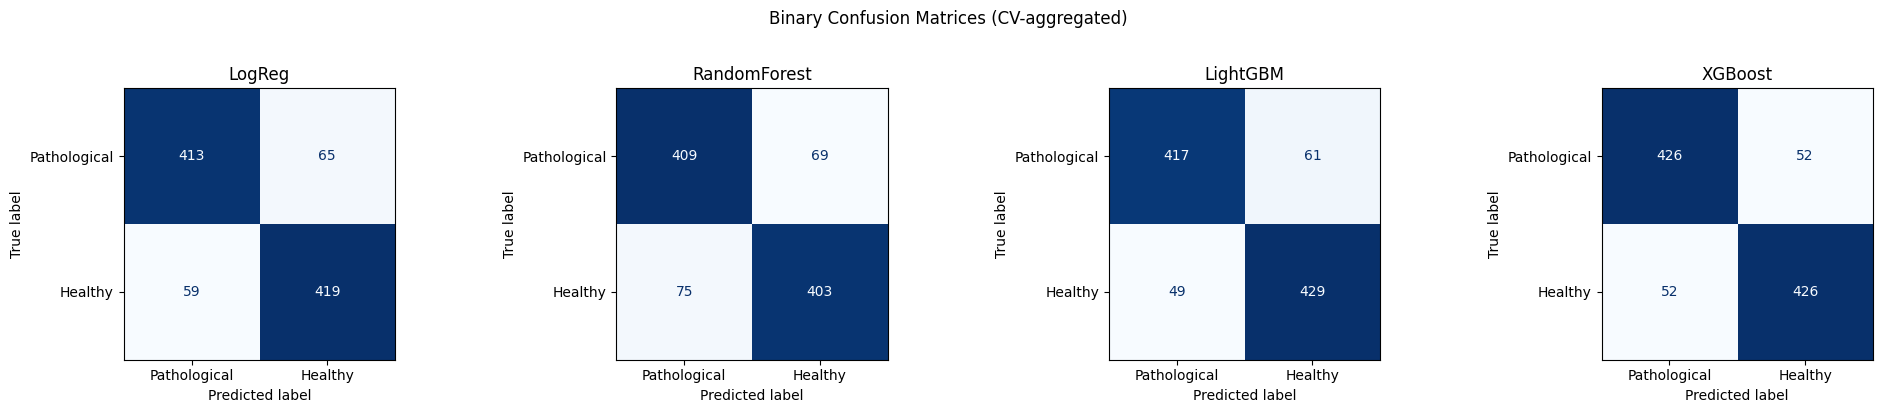
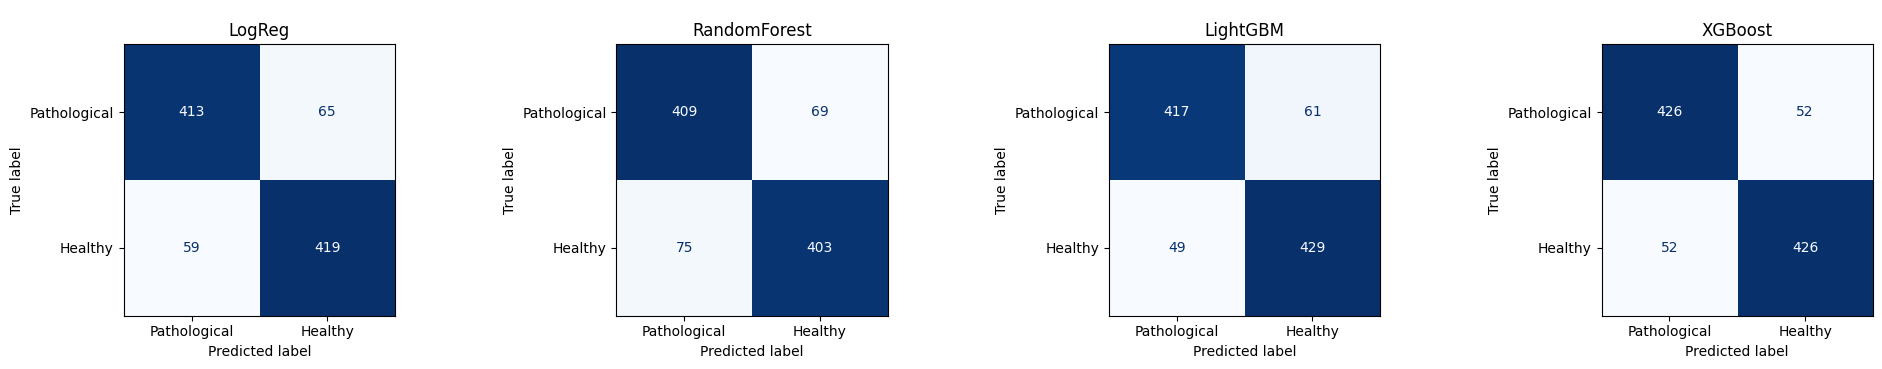
move multi-class cfn matrix to be below binary cfn matrix; Remove the header in both cfn matrix figures; tweaked color in data_pipeline.png

diff --git a/research_paper/paper.tex b/research_paper/paper.tex
@@ -228,6 +228,13 @@ The confusion matrices aggregated across the cross-validation folds are shown in
 \label{fig:binary_confmat_models}
 \end{figure*}
 
+\begin{figure*}[htbp]
+\centering
+\includegraphics[width=0.8\textwidth]{figures/multiclass_confusion.png}
+\caption{Cross-validation aggregated confusion matrices for multi-class classification across different models.}
+\label{fig:multiclass_confusion}
+\end{figure*}
+
 %--------------------------------------------------------------
 \subsection{Disease Group Classification}
 %--------------------------------------------------------------
@@ -256,13 +263,6 @@ XGBoost & 0.611 & 0.604 & 0.603 \\
 The results indicate that disease-group classification is substantially more difficult than binary pathology detection. Even the best-performing model achieves an F1 score of approximately 0.63, reflecting the subtler acoustic differences between neurological and structural disorders.
 
 Figure~\ref{fig:multiclass_confusion} illustrates the confusion matrices for this task.
-
-\begin{figure}[htbp]
-\centering
-\includegraphics[width=\columnwidth]{figures/multiclass_confusion.png}
-\caption{Confusion matrices for disease-group classification.}
-\label{fig:multiclass_confusion}
-\end{figure}
 
 %--------------------------------------------------------------
 \subsection{Feature Ablation Analysis}
